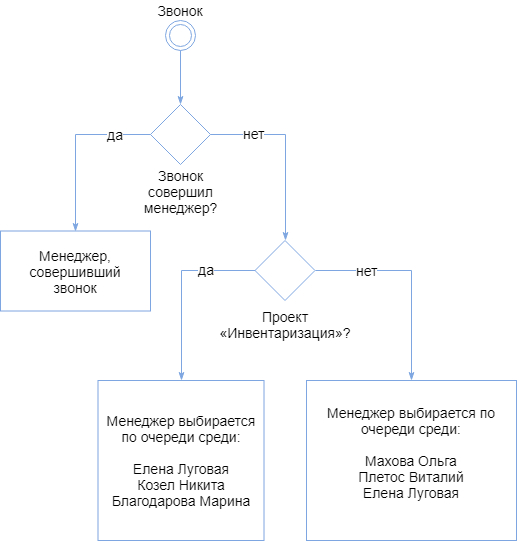
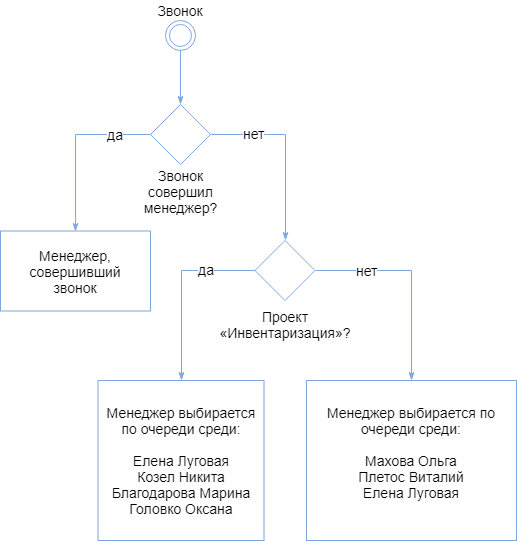
Updates leads/leadsLifecycle.md
Auto commit by GitBook Editor

Changed region(s): [[0.1857, 0.7394, 0.4952, 0.9464]]

diff --git a/leads/leadsLifecycle.md b/leads/leadsLifecycle.md
@@ -29,7 +29,7 @@
 После того как определен проект, выбирается менеджер для нового лида по определенным правилам. На рисунке ниже представлен *общий* алгоритм распределения лидов.
 ![](/assets/raspred-leads-alg_1.png)
 
-На рисунке ниже представлено актуальное на **13.03.2018** распределение лидов.
+На рисунке ниже представлено актуальное на **26.03.2018** распределение лидов.
 ![](/assets/raspred-leads-alg.png)
 
 На основании данных, пришедших из КЦ у лида автоматически заполняются такие поля, как:
